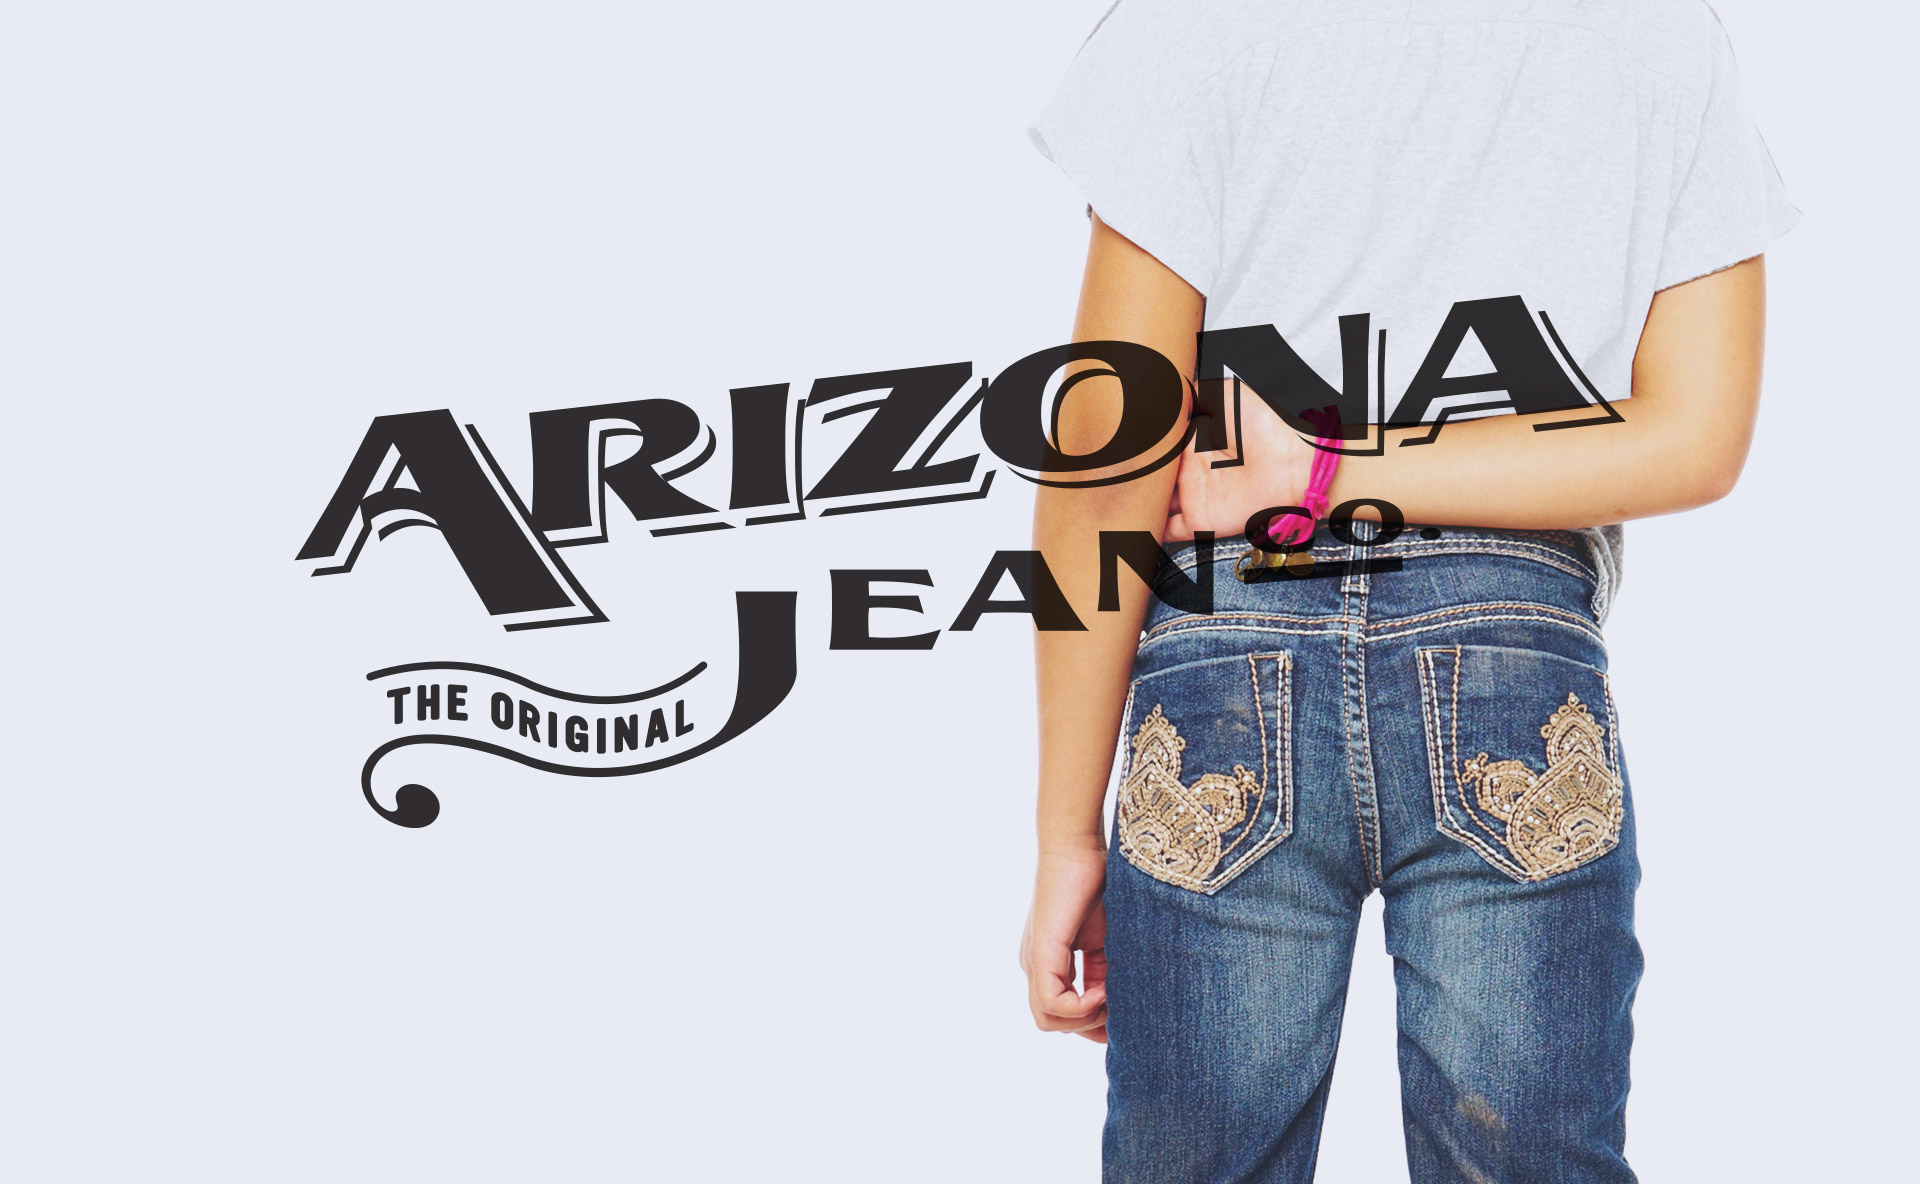
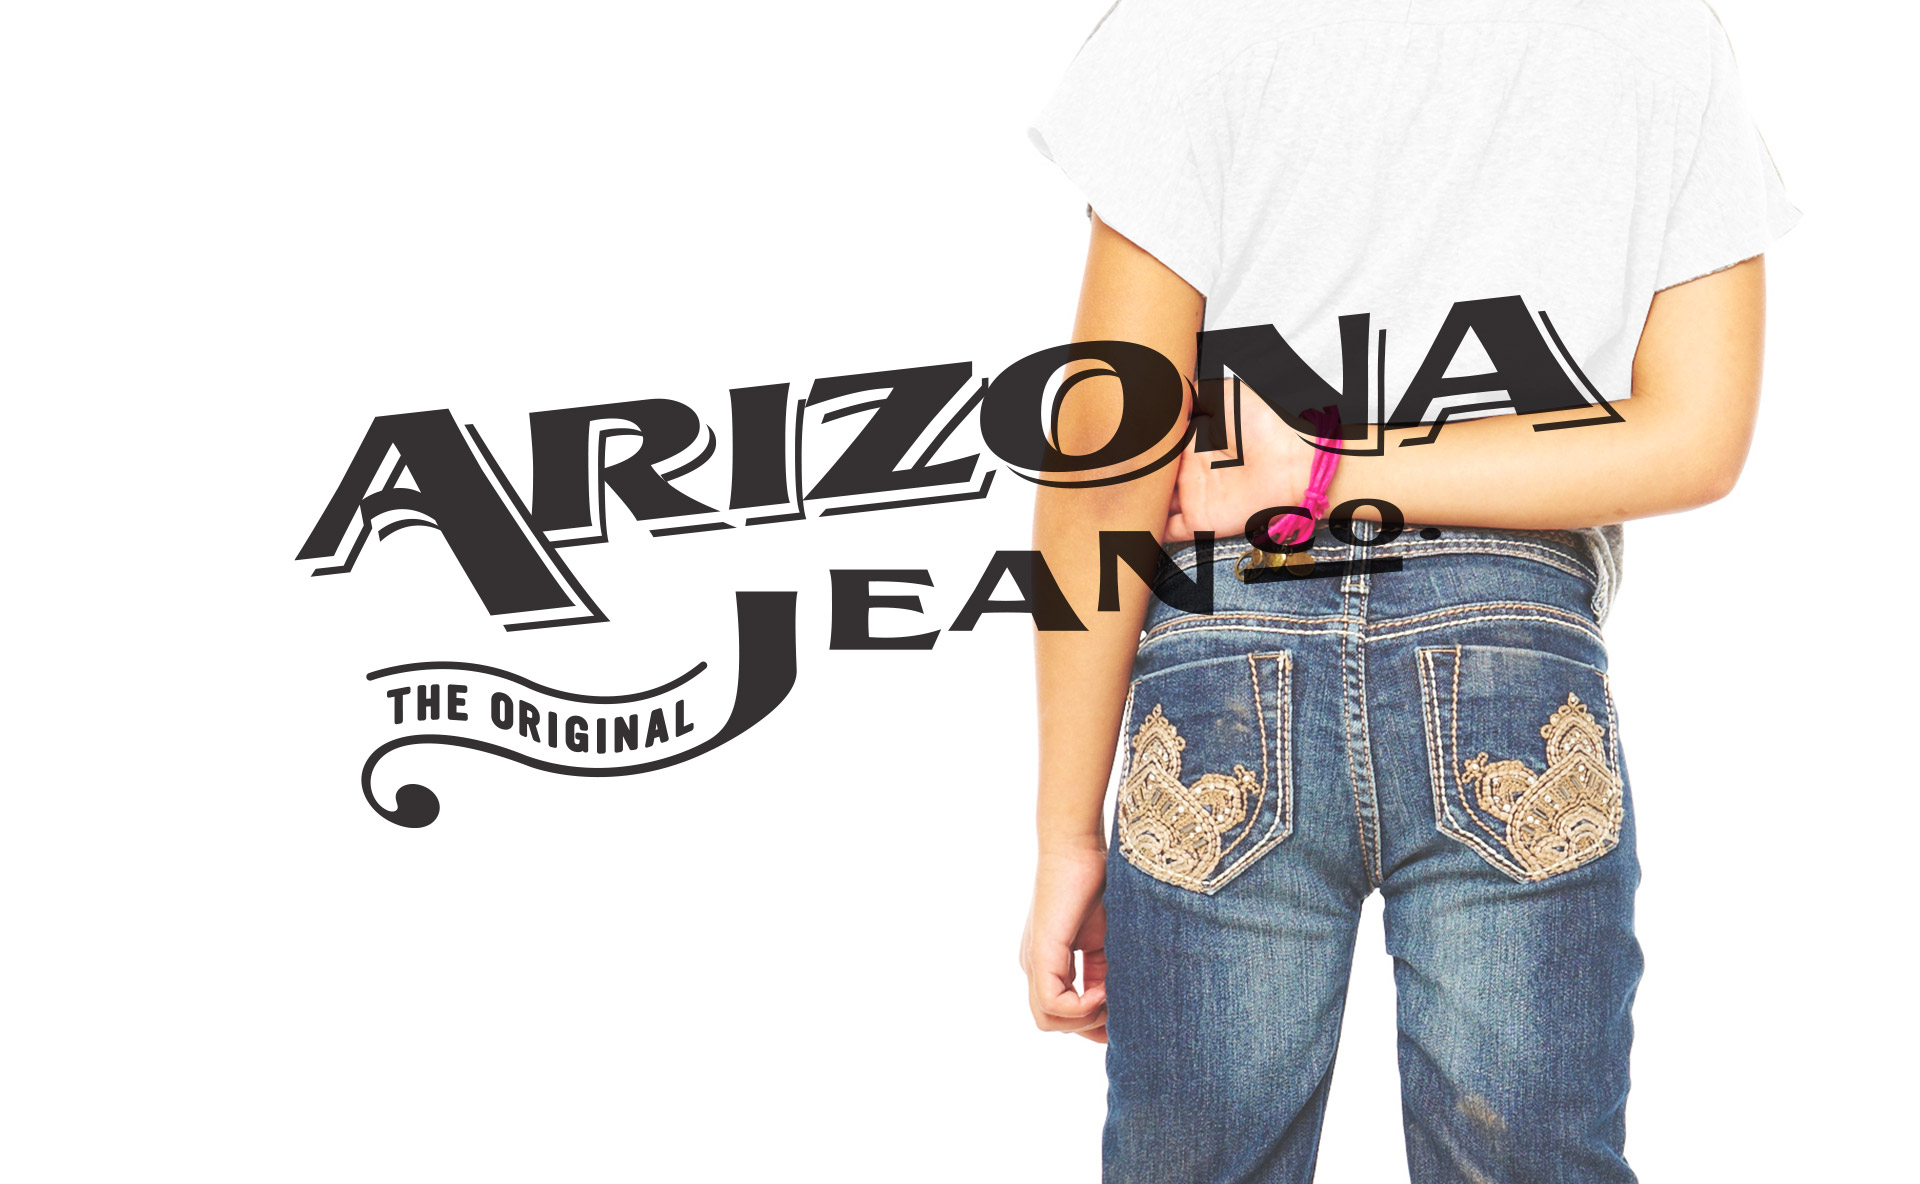
more images added to existing projects

diff --git a/src/gatsby-plugin-theme-ui/index.js b/src/gatsby-plugin-theme-ui/index.js
@@ -6,17 +6,18 @@ export default {
   colors: {
     ...novelaTheme.colors,
     accent: `#0F73BA`,
-    background: `#CED3E0`,
+    background: `#EBECF0`,
+    gradient: "linear-gradient(180deg, rgba(217, 219, 224, 0) 0%, #CACDD5 100%)",
     modes: {
       dark: {
         grey: "#73737D",
-        primary: "#fff",
+        primary: "#f5f5f5",
         secondary: "#fff",
         accent: "#32aafd",
-        background: "#111114",
+        background: "#1c1c1c",
         hover: "rgba(255, 255, 255, 0.07)",
         gradient:
-          "linear-gradient(180deg, #111114 0%, rgba(48, 50, 64, 0.32) 100%)",
+          "linear-gradient(180deg, #1c1c1c 0%, rgba(17, 18, 22, 100) 100%)",
         articleText: "#fff",
         track: "rgba(255, 255, 255, 0.3)",
         progress: "#fff",

diff --git a/content/posts/2020-01-11-card-design-concept/index.md b/content/posts/2020-01-11-card-design-concept/index.md
@@ -12,11 +12,43 @@ These are the results.
 
 We exhaust millions of impressions by delivering the right content to the wrong audience, making the content ultimately irrelevant. These opportunities could easily be redeemed by developing a presentation pattern that makes serving hyper-relevant content easier to deploy.
 
+<div className="Image__Medium">
+  <img
+    src="./images/brand-card-group.png"
+    title="Logo Title Text 1"
+    alt="Alt text"
+  />
+</div>
+
 Story Cards—An entry point into a deeper level of engagement with a product, brand, or seasonal topic.
+
+<div className="Image__Medium">
+  <img
+    src="./images/product-card-group-b.png"
+    title="Logo Title Text 1"
+    alt="Alt text"
+  />
+</div>
 
 Product cards — Simplified pricing views allows us to display ratings, a favorites toggle, or local availability.
 
+<div className="Image__Medium">
+  <img
+    src="./images/brand-card-group-t.png"
+    title="Logo Title Text 1"
+    alt="Alt text"
+  />
+</div>
+
 List cards — Quick glances of lists seamlessly guide users back into their experience.
+
+<div className="Image__Medium">
+  <img
+    src="./images/brand-card-group.png"
+    title="Logo Title Text 1"
+    alt="Alt text"
+  />
+</div>
 
 Customers are possessive not only of their style identity, but also of their own curation and collection process. A new card-based design approach will allow customers to truly collect and keep their style.
 

diff --git a/content/posts/2020-01-08-arizona-jeans/index.md b/content/posts/2020-01-08-arizona-jeans/index.md
@@ -8,9 +8,15 @@ excerpt: Launch campaign for the newly re-branded Arizona Jeans exclusively at 
 
 Launch campaign for the newly re-branded Arizona Jeans exclusively at JCPenney. Created a tablet image gallery app, email & web banner ads to have a strong online presence. Keeping everything on white including the shirts on the models allowed the jeans to really take focus without distractions.
 
+![Image of tablet experience design](/images/arizona-jean-tablet.png)
+
 Fullscreen iPad ad experience
+## 
+![Image of email experience design](/images/arizona-jean-email-2.png)
 
 Brand awareness e-mail campaign
+## 
+![Image of banner experience design](/images/arizona-jean-banners.gif)
 
 Online banner advertisements
 

diff --git a/content/posts/2020-01-05-makeit-robotics/index.md b/content/posts/2020-01-05-makeit-robotics/index.md
@@ -8,7 +8,13 @@ excerpt: Brand page for programmable robot kits that you build and control with 
 
 Brand page for programmable robot kits that you build and control with an Arduino micro-controller. Visual navigation along the top with a breakdown of the tools & costs below the hero image to help make an informed decision.
 
+## 
+![Image of make-it robotics web experience design](/images/make-it-desktop-experience.jpg)
+
 I wanted to create something interesting and eye-catching for the instructional pdf covers so we came up with an exploded isometric view for each robot.
+
+## 
+![Image of make-it robotics isometric exploded view diagram](/images/clamping-arm-robot.gif)
 
 ---
 

diff --git a/content/posts/2020-01-09-jcpenney-ad/index.md b/content/posts/2020-01-09-jcpenney-ad/index.md
@@ -13,13 +13,8 @@ Pitch for a new way JCPenney can stay relevant while advertising on mobile pla
   <figcaption>Promo video showcasing the ad interactions.</figcaption>
 </div>
 
-<div className="Image__Medium">
-  <img
-    src="./images/mobile-image-grid-1.png"
-    title="Mobile Designs in a Grid Layout"
-    alt="Mobile Designs in a Grid Layout"
-  />
-</div>
+
+![Image of Screens](/images/jcp-screens_2x_684.png)
 
 ---
 
